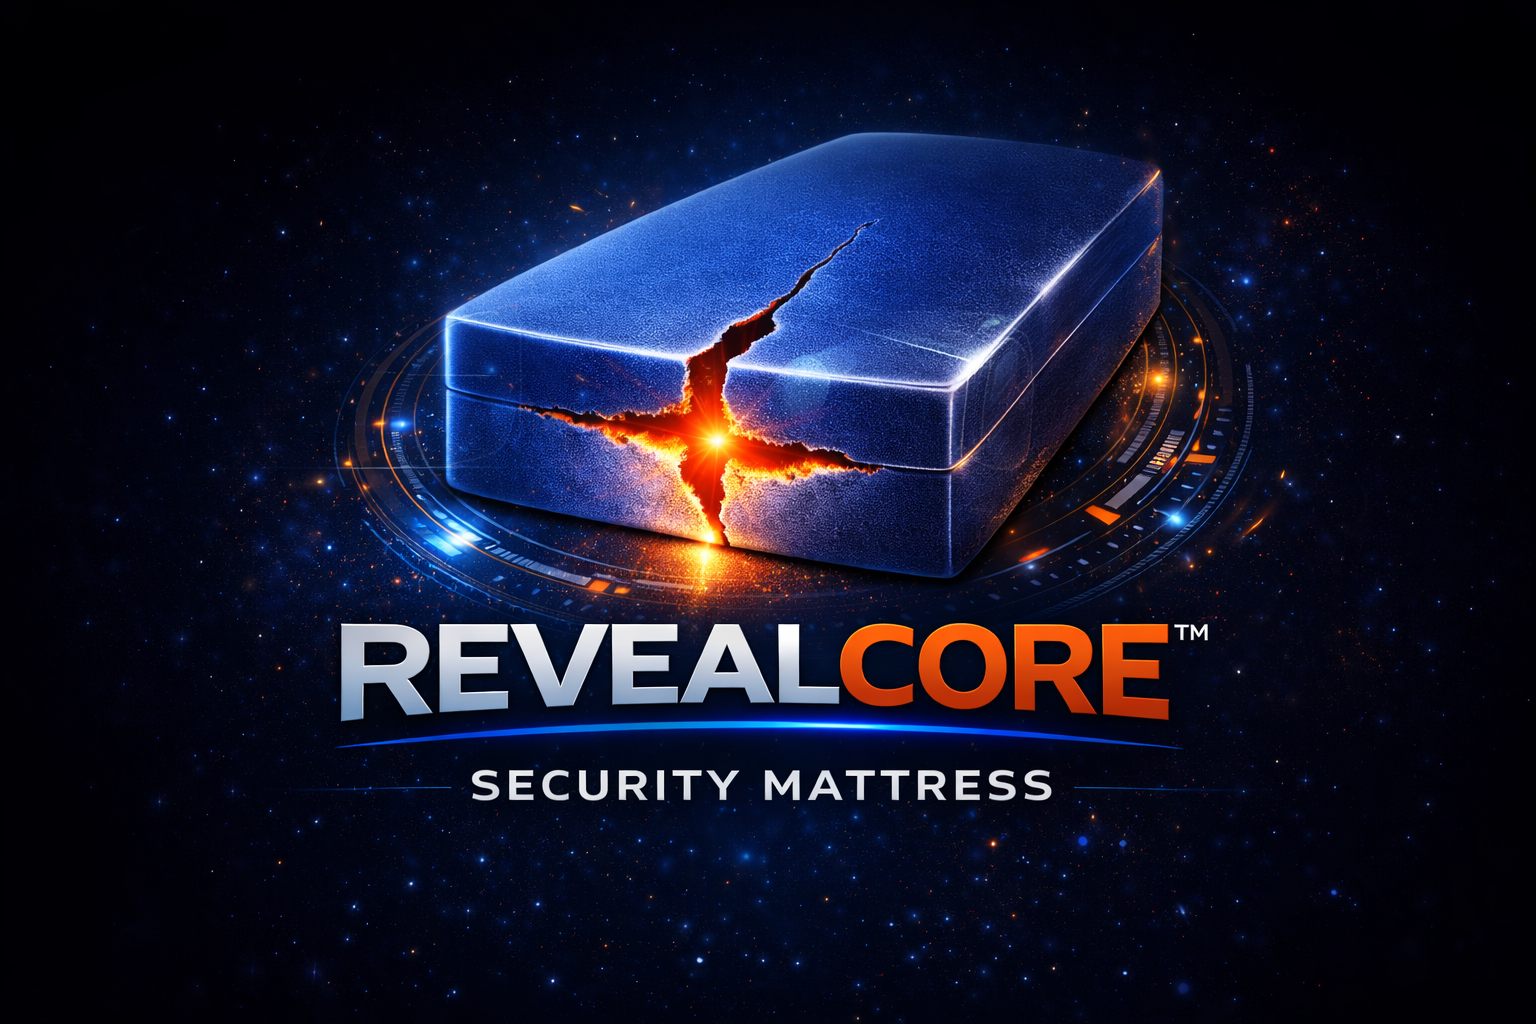
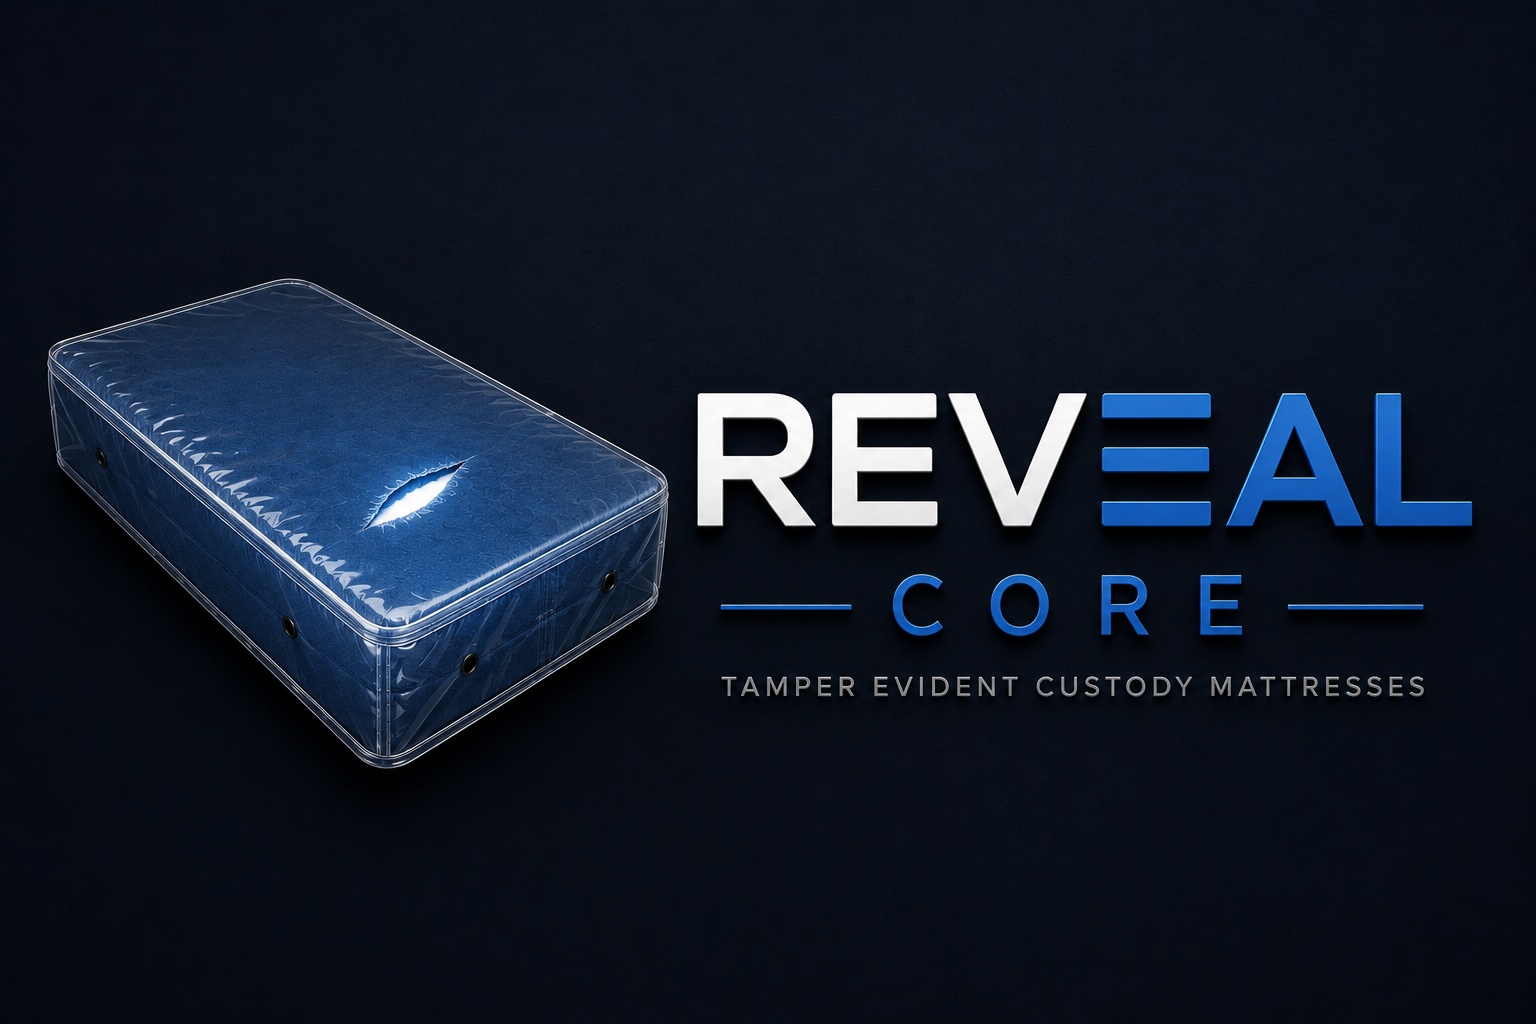
Refactor code structure for improved readability and maintainability

diff --git a/components/Companies.tsx b/components/Companies.tsx
@@ -4,13 +4,13 @@ import Image from "next/image";
 import { ExternalLink, Building2, Newspaper } from "lucide-react";
 
 export default function Companies() {
-  const companies = [
+    const companies = [
     {
-      name: "Ultimate Property Holdings",
+      name: "Atlas Properties",
       role: "Founder",
-      logo: "/companies/Ultimate-Property-Holdings.avif",
-      description: "A leading property management and real estate investment firm dedicated to quality holdings and strategic development.",
-      url: "https://www.ultimatepropertyholdings.com",
+      logo: "/companies/atlas-properties.png",
+      description: "A property management and real estate investment firm focused on strategic development and high-quality holdings.",
+      url: "https://atlasproperties.net",
       icon: Building2,
       color: "from-[#5aa9ff]/18 to-[#cfe2ff]/14",
       borderColor: "border-[#5aa9ff]/30"

diff --git a/components/About.tsx b/components/About.tsx
@@ -68,7 +68,7 @@ export default function About() {
                             </div>
 
                             <div className="flex flex-wrap justify-center gap-8 text-center">
-                                <div className="text-xl font-semibold text-[#f1c1cc]">77+ Patents Filed</div>
+                                <div className="text-xl font-semibold text-[#f1c1cc]">252 Patents Filed</div>
                                 <div className="text-xl font-semibold text-[#8ec7ff]">26+ Years in Business</div>
                             </div>
                         </div>

diff --git a/components/Stats.tsx b/components/Stats.tsx
@@ -4,7 +4,7 @@ import { booksData } from "@/data/books";
 export default function Stats() {
     const stats = [
         { label: "Years Innovating", value: "26+", href: "/gallery" },
-        { label: "Patents Filed", value: "77+", href: "/patents" },
+        { label: "Patents Filed", value: "252", href: "/patents" },
         { label: "Books Authored", value: booksData.length.toString(), href: "#books" },
         { label: "Awards Received", value: "9", href: "/achievements" },
     ];